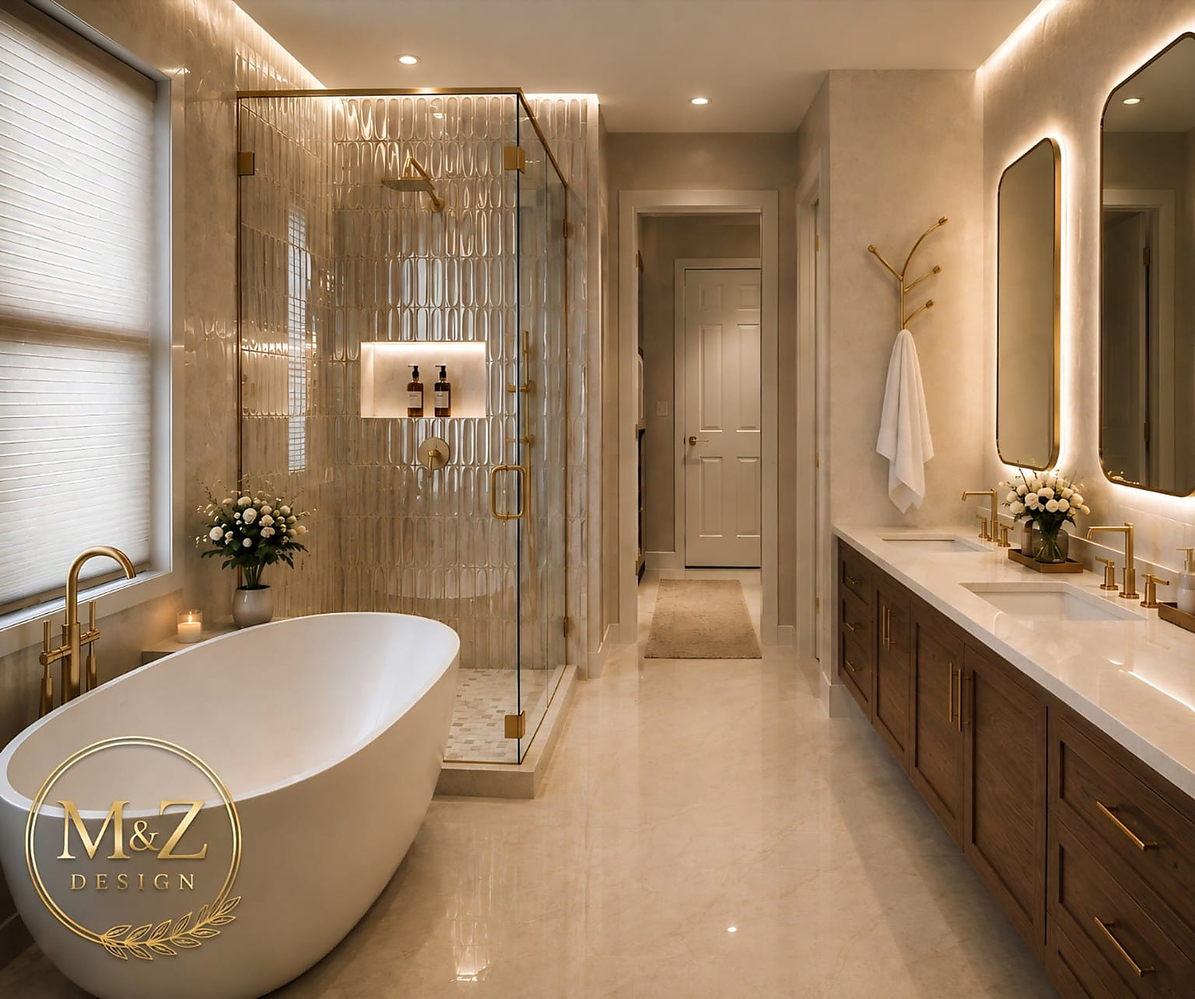
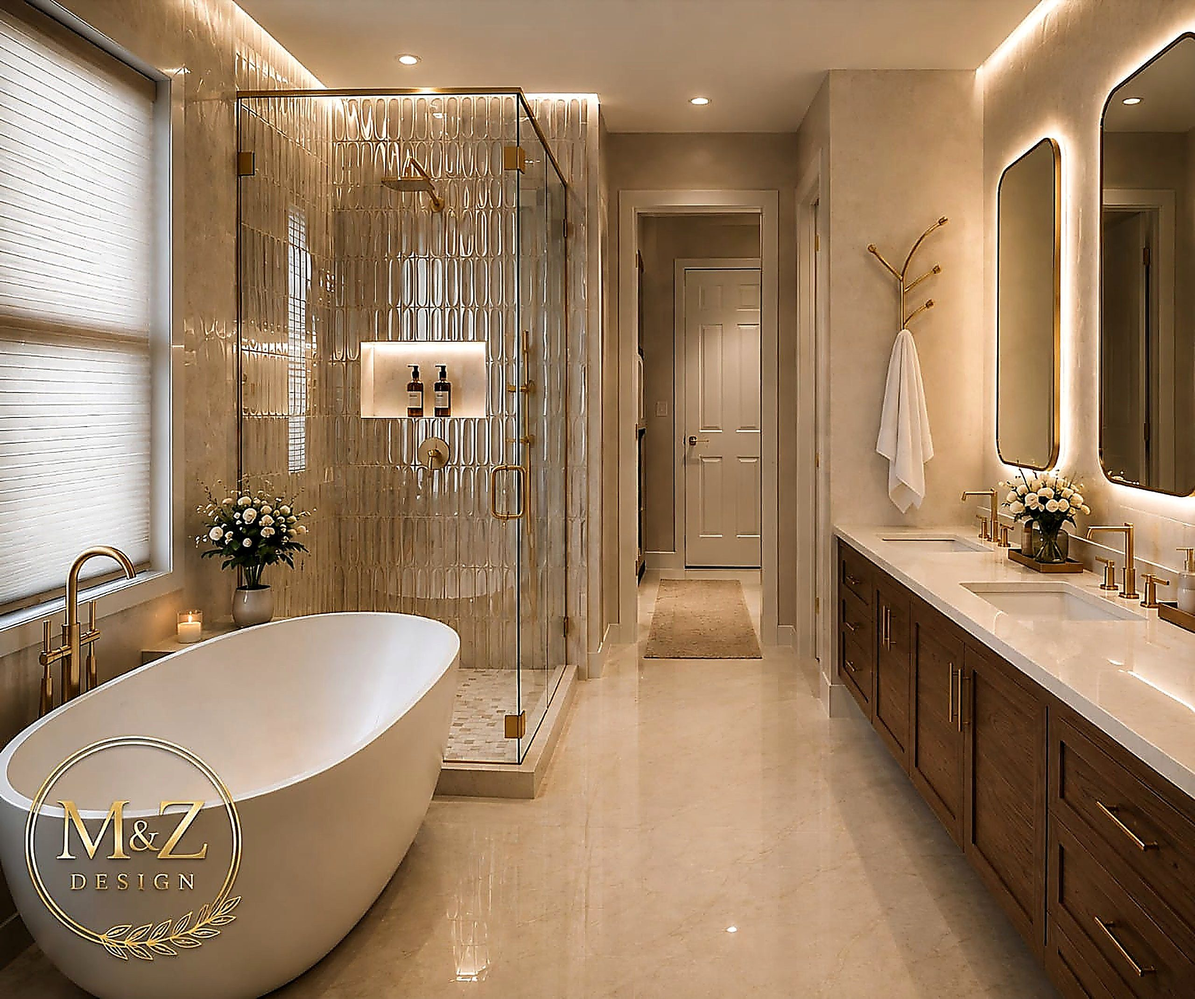
Sharpen the primary bath hero image
The AI-generated render had the soft, low-micro-contrast look typical
of that source — fine edges (mirror frames, tile grout, fixture
outlines) lacked bite even at full resolution. Applied a tuned unsharp
mask (radius 2.2, 160%) plus a small contrast lift, checked against
both a detail crop (mirror/vanity) and a smooth-surface crop (the tub)
to confirm no halo artifacts or added noise before committing.

Re-encoded JPEG/WebP at quality 82/80 to keep file size reasonable
despite the added high-frequency detail (still landed larger than
before — sharper edges compress less — but within a normal budget for
a fetchpriority=high hero image).

Same source file backs the homepage hero, portfolio, and contact page,
so this fixes it everywhere it appears in one pass.

diff --git a/contact.html b/contact.html
@@ -19,7 +19,7 @@
 <link rel="manifest" href="/site.webmanifest">
 <link rel="preconnect" href="https://fonts.googleapis.com">
 <link rel="preconnect" href="https://fonts.gstatic.com" crossorigin>
-<link rel="stylesheet" href="styles.css?v=202609231208">
+<link rel="stylesheet" href="styles.css?v=202609231350">
 <script async src="https://www.googletagmanager.com/gtag/js?id=G-YE0TQJKPHE"></script>
 <noscript><style>[data-reveal]{opacity:1!important;transform:none!important;}</style></noscript>
 <script type="application/ld+json">
@@ -312,7 +312,7 @@
   </div>
 </footer>
 
-<script src="script.js?v=202609231208" defer></script>
-<script src="webgl.js?v=202609231208" defer></script>
+<script src="script.js?v=202609231350" defer></script>
+<script src="webgl.js?v=202609231350" defer></script>
 </body>
 </html>

diff --git a/index.html b/index.html
@@ -21,7 +21,7 @@
 <link rel="manifest" href="/site.webmanifest">
 <link rel="preconnect" href="https://fonts.googleapis.com">
 <link rel="preconnect" href="https://fonts.gstatic.com" crossorigin>
-<link rel="stylesheet" href="styles.css?v=202609231208">
+<link rel="stylesheet" href="styles.css?v=202609231350">
 <script async src="https://www.googletagmanager.com/gtag/js?id=G-YE0TQJKPHE"></script>
 <noscript><style>[data-reveal]{opacity:1!important;transform:none!important;}</style></noscript>
 <script type="application/ld+json">
@@ -337,7 +337,7 @@
   </div>
 </footer>
 
-<script src="script.js?v=202609231208" defer></script>
-<script src="webgl.js?v=202609231208" defer></script>
+<script src="script.js?v=202609231350" defer></script>
+<script src="webgl.js?v=202609231350" defer></script>
 </body>
 </html>

diff --git a/about.html b/about.html
@@ -19,7 +19,7 @@
 <link rel="manifest" href="/site.webmanifest">
 <link rel="preconnect" href="https://fonts.googleapis.com">
 <link rel="preconnect" href="https://fonts.gstatic.com" crossorigin>
-<link rel="stylesheet" href="styles.css?v=202609231208">
+<link rel="stylesheet" href="styles.css?v=202609231350">
 <script async src="https://www.googletagmanager.com/gtag/js?id=G-YE0TQJKPHE"></script>
 <noscript><style>[data-reveal]{opacity:1!important;transform:none!important;}</style></noscript>
 </head>
@@ -260,7 +260,7 @@
   </div>
 </footer>
 
-<script src="script.js?v=202609231208" defer></script>
-<script src="webgl.js?v=202609231208" defer></script>
+<script src="script.js?v=202609231350" defer></script>
+<script src="webgl.js?v=202609231350" defer></script>
 </body>
 </html>

diff --git a/celebrations.html b/celebrations.html
@@ -19,7 +19,7 @@
 <link rel="manifest" href="/site.webmanifest">
 <link rel="preconnect" href="https://fonts.googleapis.com">
 <link rel="preconnect" href="https://fonts.gstatic.com" crossorigin>
-<link rel="stylesheet" href="styles.css?v=202609231208">
+<link rel="stylesheet" href="styles.css?v=202609231350">
 <script async src="https://www.googletagmanager.com/gtag/js?id=G-YE0TQJKPHE"></script>
 <noscript><style>[data-reveal]{opacity:1!important;transform:none!important;}</style></noscript>
 </head>
@@ -209,7 +209,7 @@
   </div>
 </footer>
 
-<script src="script.js?v=202609231208" defer></script>
-<script src="webgl.js?v=202609231208" defer></script>
+<script src="script.js?v=202609231350" defer></script>
+<script src="webgl.js?v=202609231350" defer></script>
 </body>
 </html>

diff --git a/originals.html b/originals.html
@@ -19,7 +19,7 @@
 <link rel="manifest" href="/site.webmanifest">
 <link rel="preconnect" href="https://fonts.googleapis.com">
 <link rel="preconnect" href="https://fonts.gstatic.com" crossorigin>
-<link rel="stylesheet" href="styles.css?v=202609231208">
+<link rel="stylesheet" href="styles.css?v=202609231350">
 <script async src="https://www.googletagmanager.com/gtag/js?id=G-YE0TQJKPHE"></script>
 <noscript><style>[data-reveal]{opacity:1!important;transform:none!important;}</style></noscript>
 </head>
@@ -219,7 +219,7 @@
   </div>
 </footer>
 
-<script src="script.js?v=202609231208" defer></script>
-<script src="webgl.js?v=202609231208" defer></script>
+<script src="script.js?v=202609231350" defer></script>
+<script src="webgl.js?v=202609231350" defer></script>
 </body>
 </html>

diff --git a/portfolio.html b/portfolio.html
@@ -19,7 +19,7 @@
 <link rel="manifest" href="/site.webmanifest">
 <link rel="preconnect" href="https://fonts.googleapis.com">
 <link rel="preconnect" href="https://fonts.gstatic.com" crossorigin>
-<link rel="stylesheet" href="styles.css?v=202609231208">
+<link rel="stylesheet" href="styles.css?v=202609231350">
 <script async src="https://www.googletagmanager.com/gtag/js?id=G-YE0TQJKPHE"></script>
 <noscript><style>[data-reveal]{opacity:1!important;transform:none!important;}</style></noscript>
 </head>
@@ -248,7 +248,7 @@
   </div>
 </footer>
 
-<script src="script.js?v=202609231208" defer></script>
-<script src="webgl.js?v=202609231208" defer></script>
+<script src="script.js?v=202609231350" defer></script>
+<script src="webgl.js?v=202609231350" defer></script>
 </body>
 </html>

diff --git a/privacy.html b/privacy.html
@@ -20,7 +20,7 @@
 <link rel="manifest" href="/site.webmanifest">
 <link rel="preconnect" href="https://fonts.googleapis.com">
 <link rel="preconnect" href="https://fonts.gstatic.com" crossorigin>
-<link rel="stylesheet" href="styles.css?v=202609231208">
+<link rel="stylesheet" href="styles.css?v=202609231350">
 <script async src="https://www.googletagmanager.com/gtag/js?id=G-YE0TQJKPHE"></script>
 <noscript><style>[data-reveal]{opacity:1!important;transform:none!important;}</style></noscript>
 </head>
@@ -164,7 +164,7 @@
   </div>
 </footer>
 
-<script src="script.js?v=202609231208" defer></script>
-<script src="webgl.js?v=202609231208" defer></script>
+<script src="script.js?v=202609231350" defer></script>
+<script src="webgl.js?v=202609231350" defer></script>
 </body>
 </html>

diff --git a/services.html b/services.html
@@ -19,7 +19,7 @@
 <link rel="manifest" href="/site.webmanifest">
 <link rel="preconnect" href="https://fonts.googleapis.com">
 <link rel="preconnect" href="https://fonts.gstatic.com" crossorigin>
-<link rel="stylesheet" href="styles.css?v=202609231208">
+<link rel="stylesheet" href="styles.css?v=202609231350">
 <script async src="https://www.googletagmanager.com/gtag/js?id=G-YE0TQJKPHE"></script>
 <noscript><style>[data-reveal]{opacity:1!important;transform:none!important;}</style></noscript>
 </head>
@@ -234,7 +234,7 @@
   </div>
 </footer>
 
-<script src="script.js?v=202609231208" defer></script>
-<script src="webgl.js?v=202609231208" defer></script>
+<script src="script.js?v=202609231350" defer></script>
+<script src="webgl.js?v=202609231350" defer></script>
 </body>
 </html>
